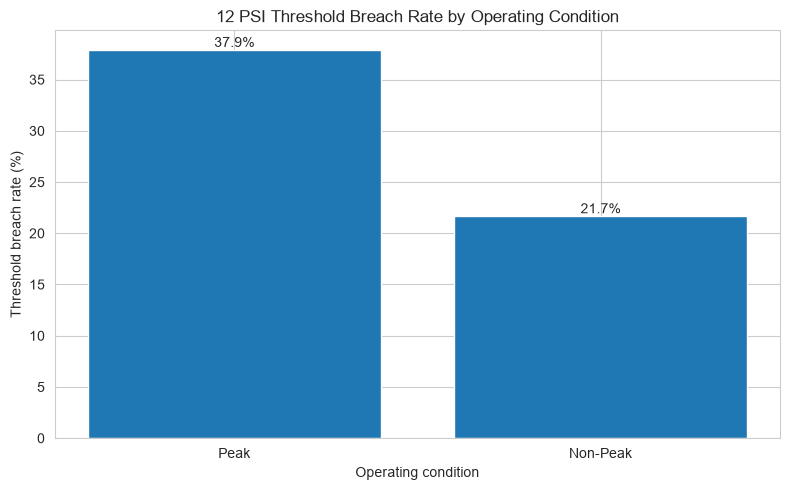
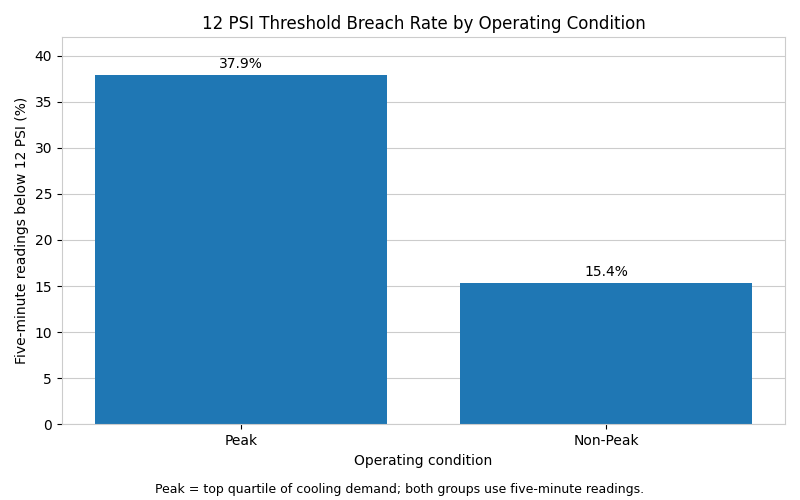
result update

diff --git a/README.md b/README.md
@@ -6,7 +6,7 @@ An operational analytics investigation that combines plant telemetry and weather
 
 The work connects statistical analysis to an operations-focused Power BI decision layer while keeping a clear distinction between **association, operational interpretation, and causal engineering conclusions**.
 
-> **Reading the preserved chart:** the image below compares peak five-minute readings with non-peak hours containing a breach. Those are different denominators. The comparable five-minute rates are **37.9% peak and 15.4% non-peak**, as calculated in the notebook and reported below.
+**Chart basis:** both groups use five-minute readings below 12 PSI. Peak is the highest quartile of cooling demand.
 
 ![Peak vs Non-Peak Threshold Breach Rate](result_images/threshold%20breach%20rate%20peakvsnopeak%20slide%203.png)
 
@@ -75,7 +75,7 @@ The threshold-breach rate was **37.9% during peak conditions (382 of 1,008 readi
 
 ![Peak summary](result_images/peak%20summary.jpg)
 
-The existing image files are retained for visual continuity. The legacy non-peak hourly measure is **21.7% (57 of 263 hours)**, where an hour is flagged if any included non-peak reading is below 12 PSI. Its average of hourly DP means is approximately **18.66 PSI**. These hourly measures have different weighting and must not replace the five-minute comparison above.
+The separate non-peak hourly measure retained in the notebook is **21.7% (57 of 263 hours)**, where an hour is flagged if any included non-peak reading is below 12 PSI. Its average of hourly DP means is approximately **18.66 PSI**. These hourly measures have different weighting and must not replace the five-minute comparison above.
 
 ### Operational interpretation
 
@@ -192,7 +192,7 @@ These are **deployment success criteria**, not outcomes claimed by the historica
 - HAC covariance adjusts coefficient uncertainty; it does not remove residual autocorrelation or make an observational model causal. The notebook compares 6, 12, 24, and 48 lags.
 - Plant 2 readings at or below 1 use the existing zero-production cleaning convention. The notebook retains original readings and checks sensitivity to excluding the negative readings.
 - The supplied CSV retains a legacy `is_peak` field based on high Humidex. The corrected notebook defines `is_peak` from cooling demand to agree with `peak_condition`; it does not overwrite the CSV.
-- Published image files are unchanged. Historical figures with different aggregation or labeling are explained beside the images; the recomputed notebook tables are the reference for current numerical claims.
+- The peak/non-peak breach chart uses the corrected five-minute comparison. Other historical images are retained, with aggregation and coefficient-unit context explained alongside them. The recomputed notebook tables are the reference for current numerical claims.
 
 ## Repository guide
 
